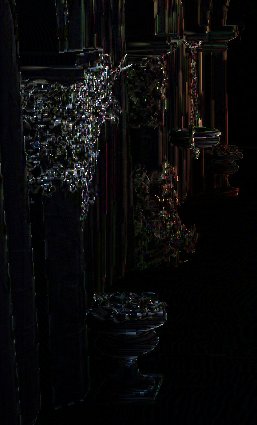
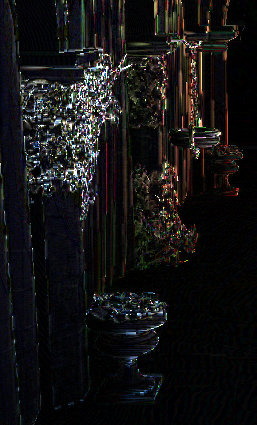
More difference in the difference pictures

diff --git a/chap-results.tex b/chap-results.tex
@@ -372,7 +372,7 @@ Interleaved sampling substantially reduces the number of lights that are process
         \label{fig:results:interleaved_difference_shaded}%
     \end{subfigure}%
 
-      \caption{Interleaved sampling results. Top row shows indirect light only. From left to right: (a) Result of the final gathering phase without the bilateral blur, (b) with the horizontal phase of the blur applied, (c) with both phases applied, (d) result of the final gathering phase without using interleaved sampling, (e) difference between (c) and (d). Bottom row: (f) final result after blending when using interleaved sampling, (g) whithout interleaved sampling, (h) difference between (f) and (g). Difference values are multiplied by four.}
+      \caption{Interleaved sampling results. Top row shows indirect light only. From left to right: (a) Result of the final gathering phase without the bilateral blur, (b) with the horizontal phase of the blur applied, (c) with both phases applied, (d) result of the final gathering phase without using interleaved sampling, (e) difference between (c) and (d). Bottom row: (f) final result after blending when using interleaved sampling, (g) whithout interleaved sampling, (h) difference between (f) and (g). Difference values are multiplied by eight.}
       \label{fig:results:interleaved_quality}
 \end{figure}
 

diff --git a/foo-thesis.tex b/foo-thesis.tex
@@ -128,8 +128,6 @@
 
 \todo[inline]{nicer \Cref{fig:results:RSMBuffers}, maybe only one large divided in thirds, or zoomins}
 
-\todo[inline]{more difference in \Cref{fig:results:interleaved_quality}}
-
 \todo[inline]{Pipeline figures for all sections in implementation. e.g. create RSM, which is then sampled, and the samples are put into two buffers.}
 
 \todo[inline]{Interleaved shading algorithm figure comparing buffer splitting vs compute shaders in addition to pipeline figure \Cref{sec:impl:interleavedShading}}
@@ -147,6 +145,8 @@
 \todo[inline][more conclusion by adding summaries of the approaches, how did we come to these conclusions, we've been able to show...]
 
 \todo[inline] {some closing remarks. add some personal evaluations, broad statement about complexity}
+
+\todo[inline]{at least two subsections per section. Tiled Shading is left}
 
 \todo[inline]{summarize ISM deficits in ISM discussion \Cref{sec:results:ism:discussion}}
 
@@ -184,7 +184,6 @@
 \subsubsection{misc}
 
 \todo[inline]{cleanup repository. rebase and cut the first unrelated commits out? decide on repository name, and maybe github name.}
-\todo[inline]{at least two subsections per section. Tiled Shading is left}
 
 
 \todo[inline]{brighter version for print}
